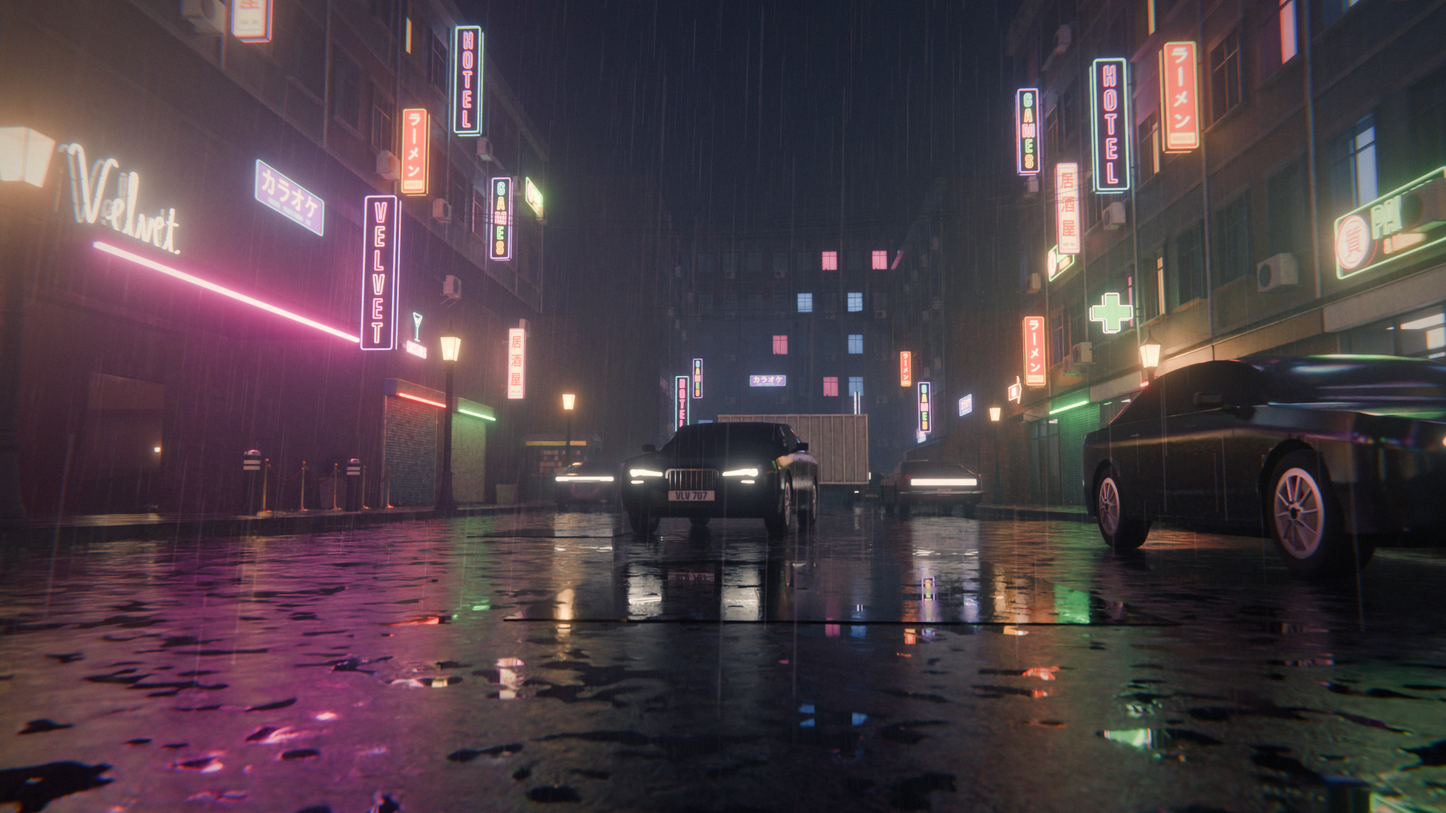
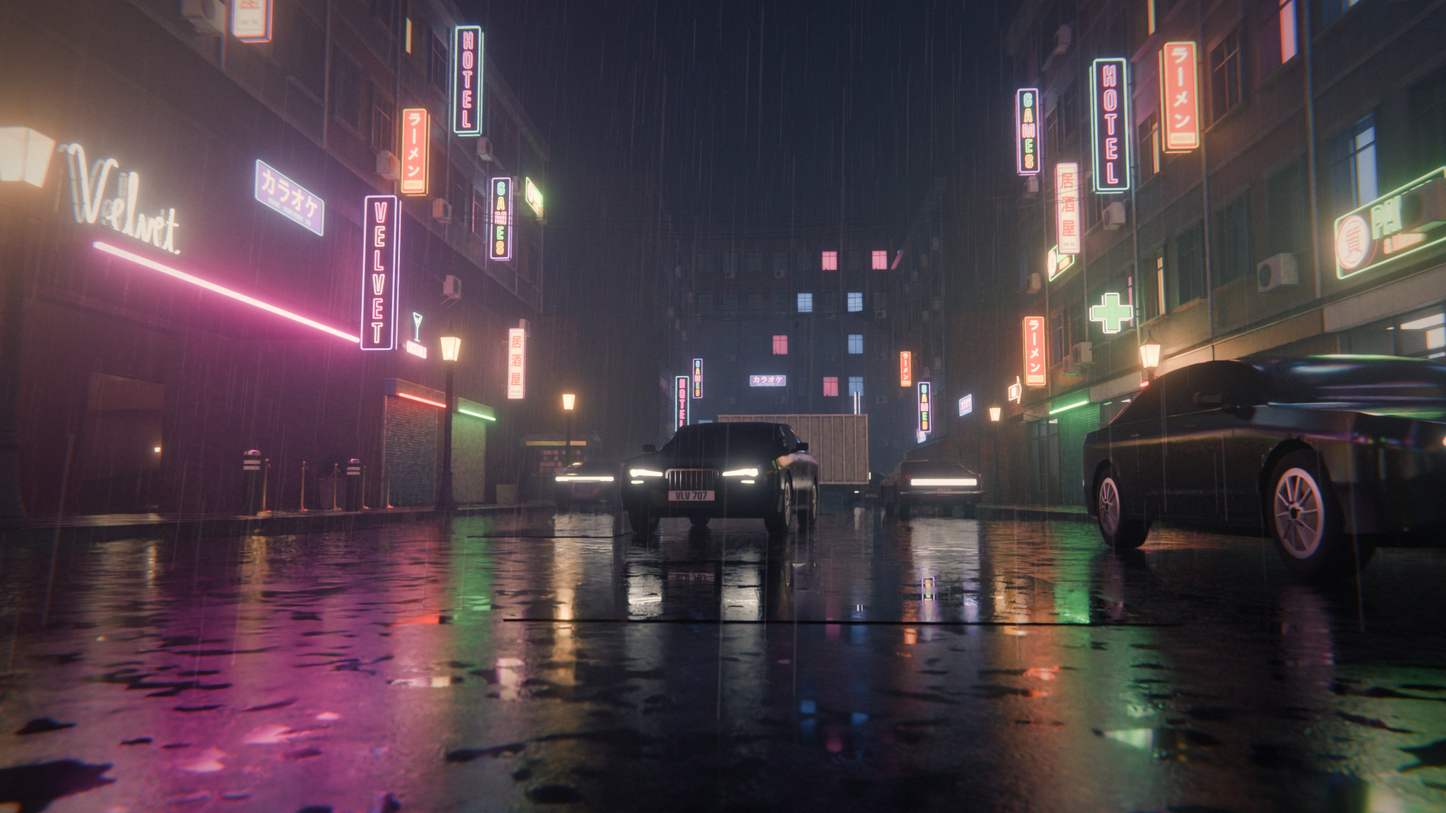
Neon street: Velvet Club re-dressed as a rain-soaked neon canyon
- 23 new assets (Tools/Blender/club/neon_kit.py, PropsNeon.json): blade, box and
  tube signs with invented text, shutters, shopfronts, awnings, AC units,
  vending machines, overhead cables, steam vents, fire barrels, facade storeys.
- Street layout: 60+ stacked signs, lit shopfronts and shutters, upper storeys,
  closed street ends in teal fog, more puddles; ground-level dressing is flush to
  the walls so cover and sightlines are unchanged (check_layouts 0 errors).
- Lighting: per-sign fixtures, teal fog, per-map cool-shadow grade for Velvet and
  Nightjar; mirror-like wet asphalt and puddles; optional animated rain ripples.
- Effects: camera-local instanced rain streaks on rainy maps, embers and flicker
  over fire barrels, steam from vents.
- Story grade no longer mutes the neon (saturation 1.0, lighter vignette/fringe).
- Three stills: Docs/Screens/20_Neon_Canyon, 21_Neon_WetStreet, 22_Neon_ClubEntrance.

Claude-Session: https://claude.ai/code/session_0118nFYumEjG82mLGbGwmWwA

diff --git a/Source/AndrewsAirsoft/Private/AirsoftCampaign.cpp b/Source/AndrewsAirsoft/Private/AirsoftCampaign.cpp
@@ -305,25 +305,25 @@ void AAirsoftCampaignGameMode::ApplyNoirGrade()
 	Volume->BlendWeight = 1.f;
 	FPostProcessSettings& S = Volume->Settings;
 	S.bOverride_ColorSaturation = true;
-	S.ColorSaturation = FVector4(0.86f, 0.86f, 0.92f, 1.f);
+	S.ColorSaturation = FVector4(1.f, 1.f, 1.04f, 1.f); // keep the neon saturated
 	S.bOverride_ColorContrast = true;
-	S.ColorContrast = FVector4(1.16f, 1.16f, 1.16f, 1.f);
+	S.ColorContrast = FVector4(1.1f, 1.1f, 1.1f, 1.f);
 	S.bOverride_ColorOffsetShadows = true;
-	S.ColorOffsetShadows = FVector4(0.f, 0.004f, 0.014f, 0.f);
+	S.ColorOffsetShadows = FVector4(0.f, 0.004f, 0.012f, 0.f);
 	S.bOverride_ColorGainHighlights = true;
-	S.ColorGainHighlights = FVector4(1.07f, 0.96f, 1.05f, 1.f);
+	S.ColorGainHighlights = FVector4(1.04f, 0.98f, 1.02f, 1.f);
 	S.bOverride_ColorGammaMidtones = true;
 	S.ColorGammaMidtones = FVector4(0.98f, 0.98f, 1.02f, 1.f);
 	S.bOverride_BloomIntensity = true;
 	S.BloomIntensity = 1.15f;
 	S.bOverride_VignetteIntensity = true;
-	S.VignetteIntensity = 0.62f;
+	S.VignetteIntensity = 0.45f;
 	S.bOverride_FilmGrainIntensity = true;
 	S.FilmGrainIntensity = 0.22f;
 	S.bOverride_SceneFringeIntensity = true;
-	S.SceneFringeIntensity = 0.7f;
+	S.SceneFringeIntensity = 0.35f;
 	S.bOverride_AutoExposureBias = true;
-	S.AutoExposureBias = -0.35f;
+	S.AutoExposureBias = 0.f;
 }
 
 float AAirsoftCampaignGameMode::PlayVoice(const FString& Line)

diff --git a/Content/Python/airsoft_setup_lib/materials.py b/Content/Python/airsoft_setup_lib/materials.py
@@ -71,7 +71,7 @@ EMISSIVE = {
 # Rain-soaked ground (night maps): darker albedo, much lower roughness (mirror-like neon reflections), animated
 # rain ripples in the normal (M_Tileable static switch RainRipples). Puddles go further (MI_Puddle).
 WET_GROUND = {
-    "AsphaltWet": {"RoughnessScale": 0.12, "RoughnessAdd": 0.07, "NormalStrength": 0.8, "Tint": (0.6, 0.6, 0.64),
+    "AsphaltWet": {"RoughnessScale": 0.12, "RoughnessAdd": 0.07, "NormalStrength": 0.3, "Tint": (0.6, 0.6, 0.64),
                    "RippleStrength": 0.25},
     "ConcreteGarageWet": {"RoughnessScale": 0.55, "RoughnessAdd": 0.0, "NormalStrength": 0.9, "Tint": (0.72, 0.72, 0.75),
                           "RippleStrength": 0.15},
